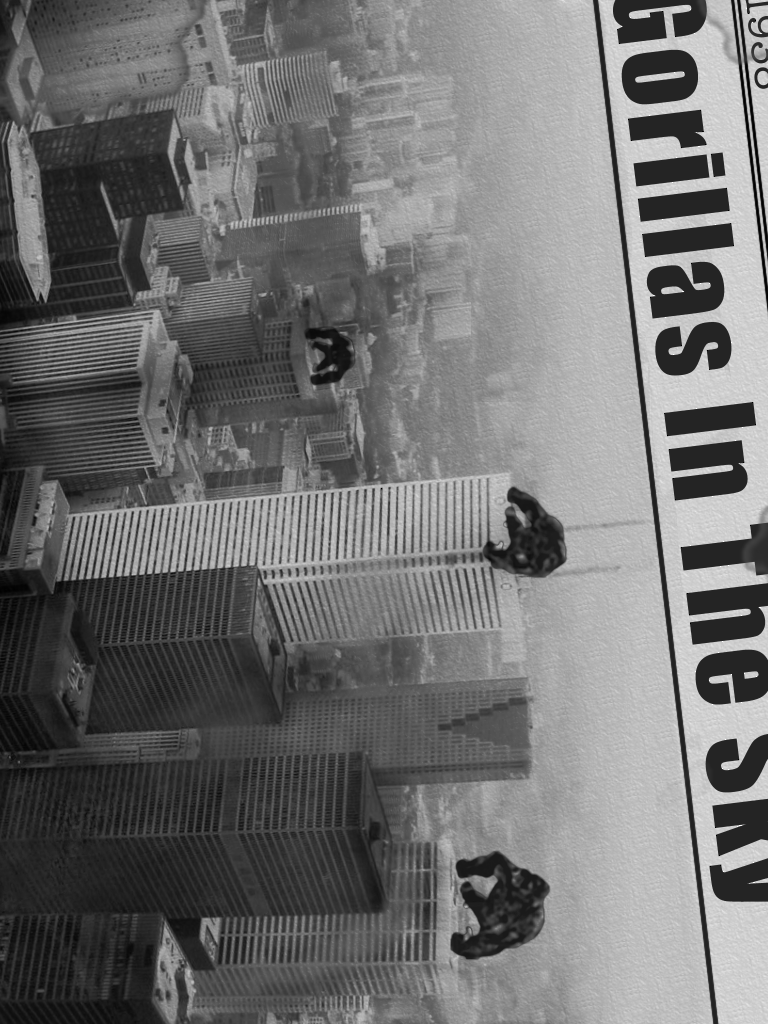
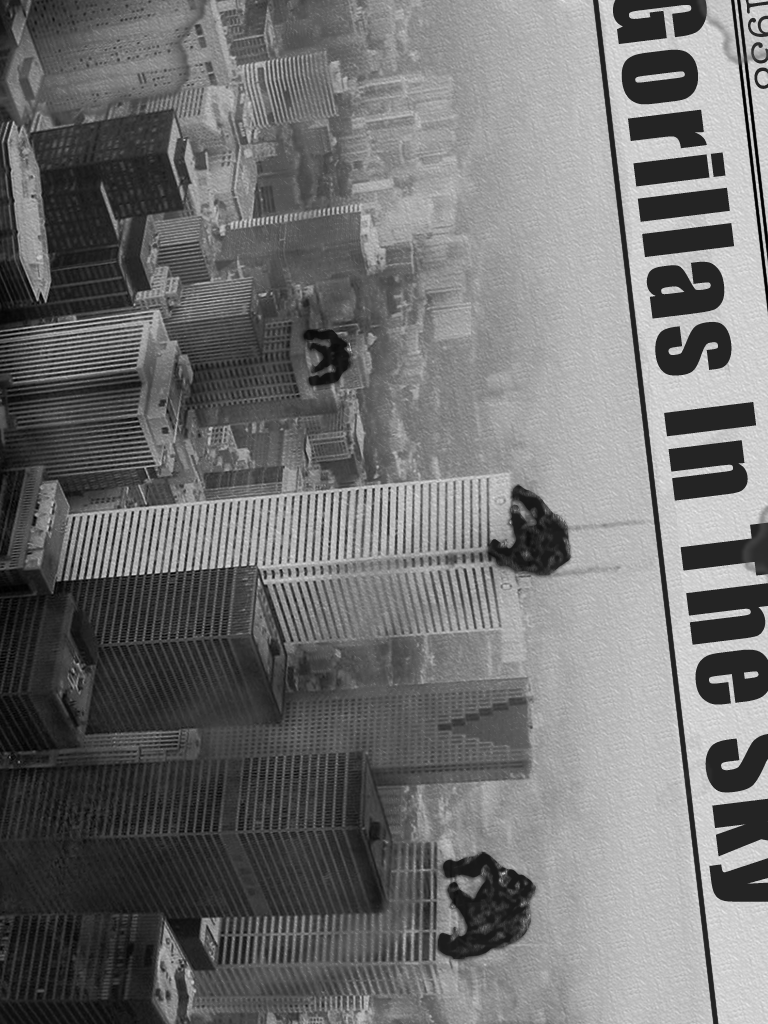
Updated artwork and added compatibility with 4" iPhone.
[IMPROVED]  Minor artwork improvements.
[ADDED]     Splash screen for 4" iPhone.
[REMOVED]   "LITE" banner.

Changed region(s): [[0.5625, 0.8125, 0.7188, 0.9375], [0.625, 0.4688, 0.75, 0.5625], [0.4062, 0.3125, 0.4688, 0.375]]

diff --git a/Gorillas/GorillasAppDelegate.m b/Gorillas/GorillasAppDelegate.m
@@ -44,13 +44,13 @@
 
 @property (nonatomic, readwrite, retain) NetController                  *netController;
 
-- (NSString *)testFlightInfo;
+- (NSDictionary *)testFlightInfo;
 - (NSString *)testFlightToken;
 
-- (NSString *)crashlyticsInfo;
+- (NSDictionary *)crashlyticsInfo;
 - (NSString *)crashlyticsAPIKey;
 
-- (NSString *)localyticsInfo;
+- (NSDictionary *)localyticsInfo;
 - (NSString *)localyticsKey;
 
 @end
@@ -318,7 +318,7 @@
 
 - (NSString *)crashlyticsAPIKey {
     
-    return NSNullToNil([[self crashlyticsInfo] valueForKeyPath:@"API Key"]);
+    return NSNullToNil([self crashlyticsInfo][@"API Key"]);
 }
 
 

diff --git a/Gorillas/MainMenuLayer.m b/Gorillas/MainMenuLayer.m
@@ -97,7 +97,7 @@
                                                            target:self selector:@selector(appMasterPassword:)],
                                nil];
     [self.appMenu alignItemsVerticallyWithPadding:15 * [PearlDeviceUtils uiScale]];
-    [self.appMenu setPosition:CGPointMake([CCDirector sharedDirector].winSize.width * 0.91f,
+    [self.appMenu setPosition:CGPointMake([CCDirector sharedDirector].winSize.width / 2 + 195.0f * [PearlDeviceUtils uiScale],
                                           [CCDirector sharedDirector].winSize.height / 2 - 85.0f * [PearlDeviceUtils uiScale])];
 
     return self;
